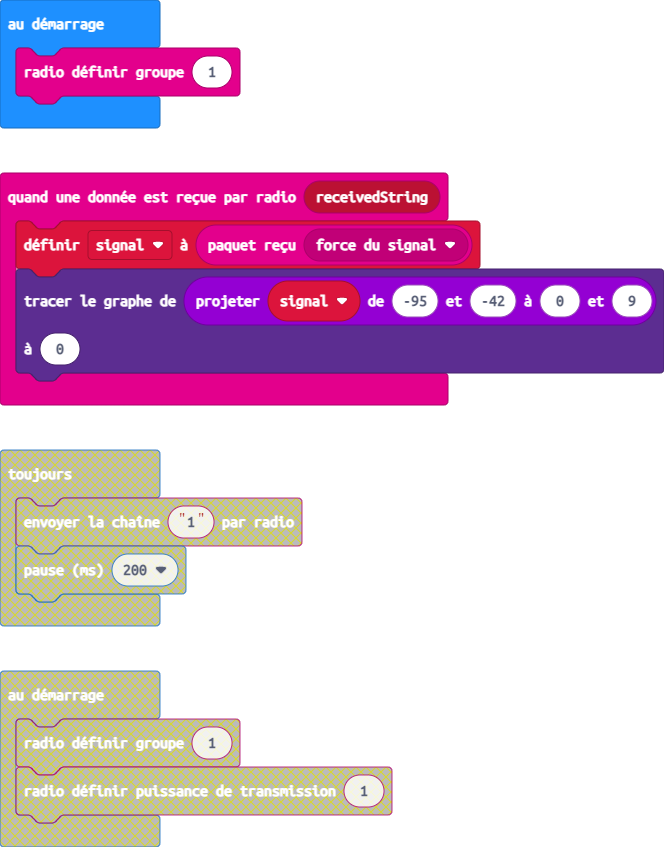
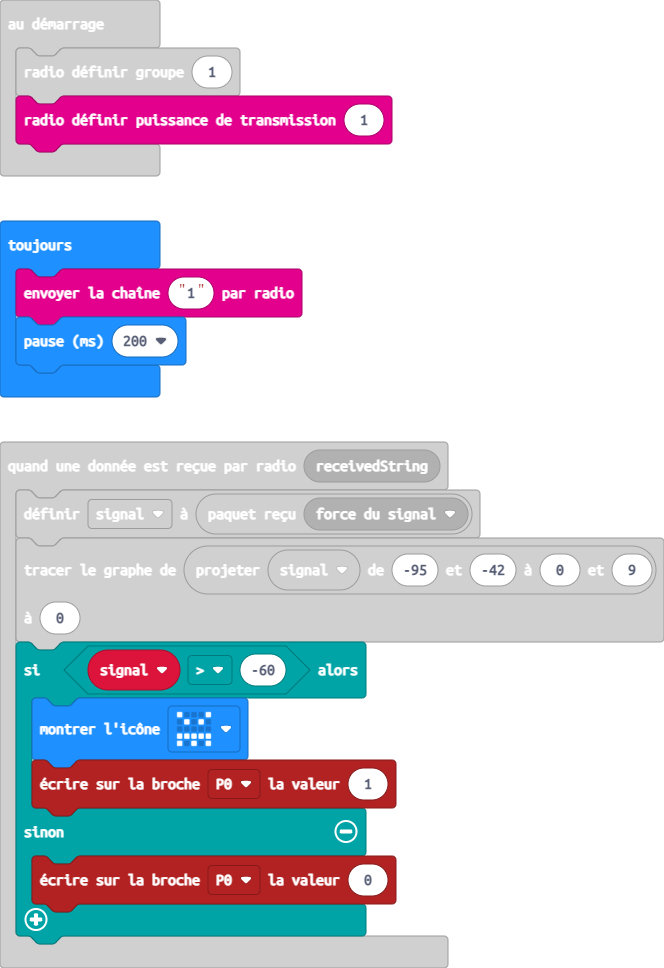
Mise à jour main.blocks, main.ts, Distance.md

diff --git a/main.ts b/main.ts
@@ -4,6 +4,17 @@ radio.onReceivedString(function (receivedString) {
     Math.map(signal, -95, -42, 0, 9),
     0
     )
+    if (signal > -60) {
+        basic.showIcon(IconNames.Angry)
+        pins.digitalWritePin(DigitalPin.P0, 1)
+    } else {
+        pins.digitalWritePin(DigitalPin.P0, 0)
+    }
 })
 let signal = 0
 radio.setGroup(1)
+radio.setTransmitPower(1)
+basic.forever(function () {
+    radio.sendString("1")
+    basic.pause(200)
+})

diff --git a/Distance.md b/Distance.md
@@ -68,4 +68,32 @@ radio.onReceivedString(function (receivedString) {
     )
 })
 ```
+## Etape 3 : récepteur
+Si le ``||variables: signal||`` est supérieur à -60 (les 2 cartes sont très proches), alors on
+montre l'icône ``||basic: Faché||`` et on met la sortie ``||pins: P0||`` à 1 (alerte sonore).
+Sinon on met la sortie ``||pins: P0||`` à 0 (son coupé).
+```blocks
+radio.onReceivedString(function (receivedString) {
+    signal = radio.receivedPacket(RadioPacketProperty.SignalStrength)
+    led.plotBarGraph(
+    Math.map(signal, -95, -42, 0, 9),
+    0
+    )
+    if (signal > -60) {
+        basic.showIcon(IconNames.Angry)
+        pins.digitalWritePin(DigitalPin.P0, 1)
+    } else {
+        pins.digitalWritePin(DigitalPin.P0, 0)
+    }
+})
+```
 
+## Etape 4 : récepteur
+Brancher la carte micro:bit en USB avec le câble fourni.
+Connecter cette carte sur un shield possédant un buzzer en P0.
+![Afficher bouton](https://edu.tactileo.fr/storage/download?filePath=0750360J%2Fjtamen%2Fpublic%2FDistance.jpg)
+Téléverser le programme dans la carte micro:bit comme vu précédemment.
+Il est également conseillé d'enregistrer le programme dans un dossier.
+
+## FIN
+Tester vos cartes !
